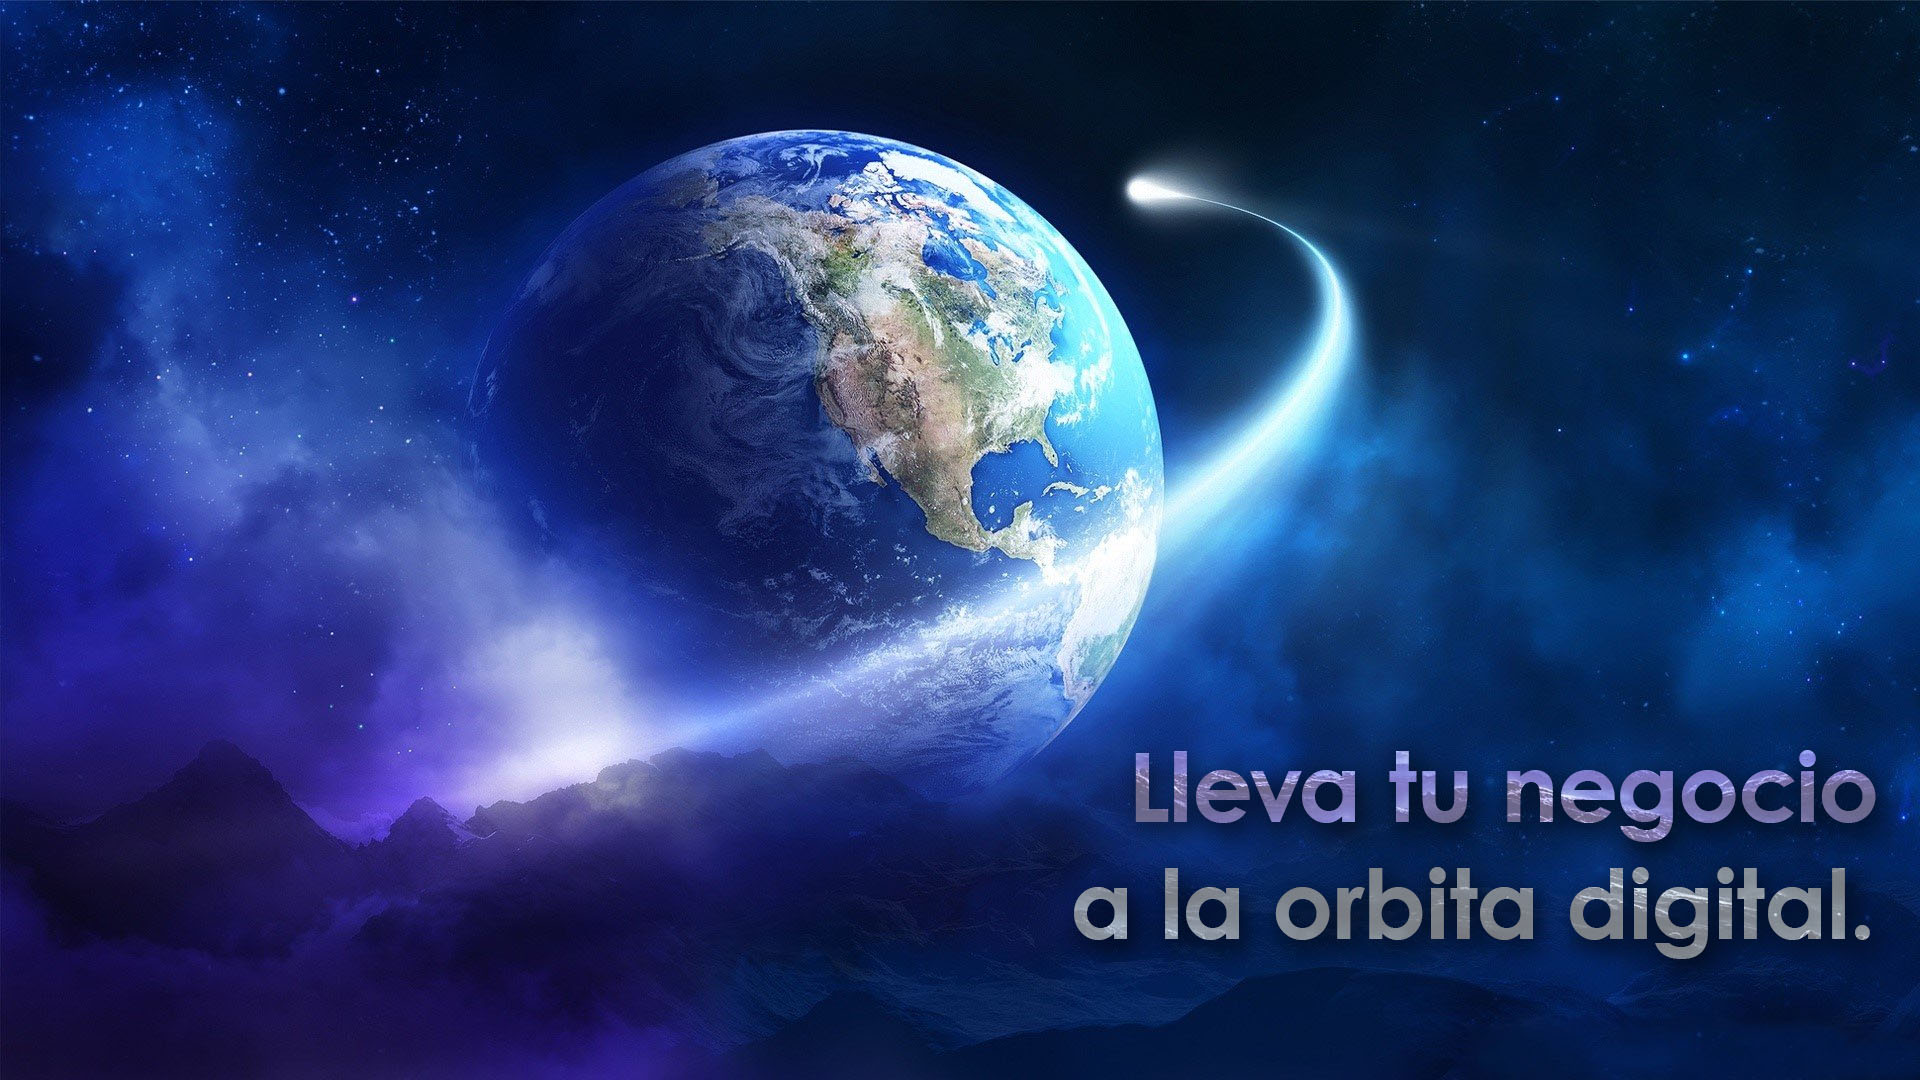
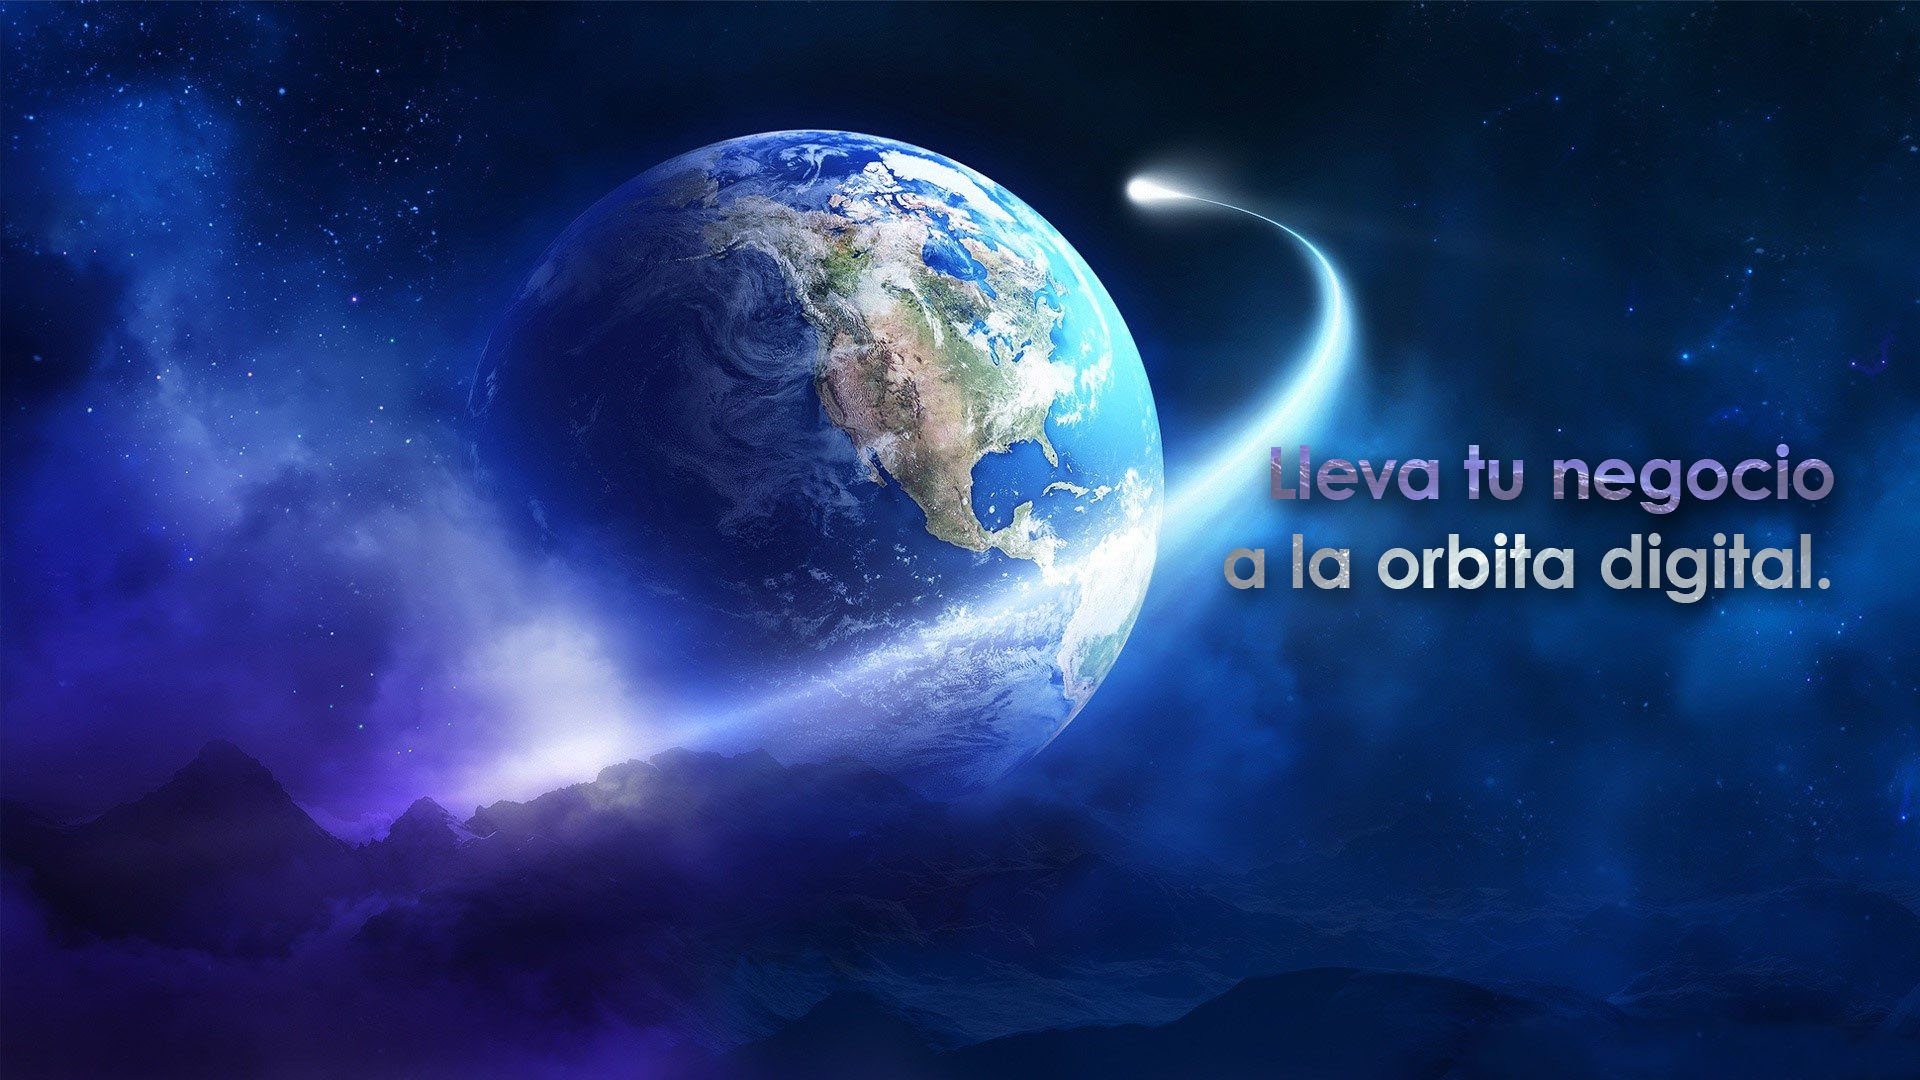
Add files via upload

Changed region(s): [[0.5625, 0.7028, 1.0, 0.8861], [0.625, 0.3972, 0.9688, 0.5806]]

diff --git a/css/estilos.css b/css/estilos.css
@@ -141,13 +141,14 @@ header.tesla-header.scrolled {
   margin-top: 70px;
   position: relative;
   overflow: hidden;
+  padding-bottom: 0x; /* para separar del contenido siguiente */
 }
 
 .carousel {
   position: relative;
   width: 100%;
-  height: 80vh;
-  max-height: 600px;
+  height: auto; /* cambio para que no corte la imagen */
+  max-height: 900px;
   overflow: hidden;
 }
 
@@ -159,9 +160,11 @@ header.tesla-header.scrolled {
 }
 
 .slides img {
-  width: 100%;
-  height: 100%;
+  width: calc(100% / 7);
+  height: auto; /* para que mantenga proporción */
+  max-height: 600px;
   object-fit: cover;
+  flex-shrink: 0;
 }
 
 .carousel-btn {
@@ -194,9 +197,10 @@ header.tesla-header.scrolled {
   position: relative;
   background: #000;
   color: #fff;
-  padding: 100px 20px;
+  padding: 120px 20px 100px; /* más espacio arriba para no quedar pegado */
   overflow: hidden;
   font-family: 'Century Gothic', sans-serif;
+  z-index: 0;
 }
 
 .info-box {

diff --git a/js/script.js b/js/script.js
@@ -22,7 +22,7 @@ const totalSlides = slides.children.length;
 let currentIndex = 0;
 
 function showSlide(index) {
-  slides.style.transform = `translateX(-${index * 100}%)`;
+  slides.style.transform = `translateX(-${(index * 100) / totalSlides}%)`;
 }
 
 function nextSlide() {
@@ -30,7 +30,7 @@ function nextSlide() {
   showSlide(currentIndex);
 }
 
-setInterval(nextSlide, 30000); // Cambia cada 30 segundos
+setInterval(nextSlide, 30000);  // Cambia cada 30 segundos
 
 // Inicializar Particles.js con efecto repulse al click
 particlesJS('particles-js',
